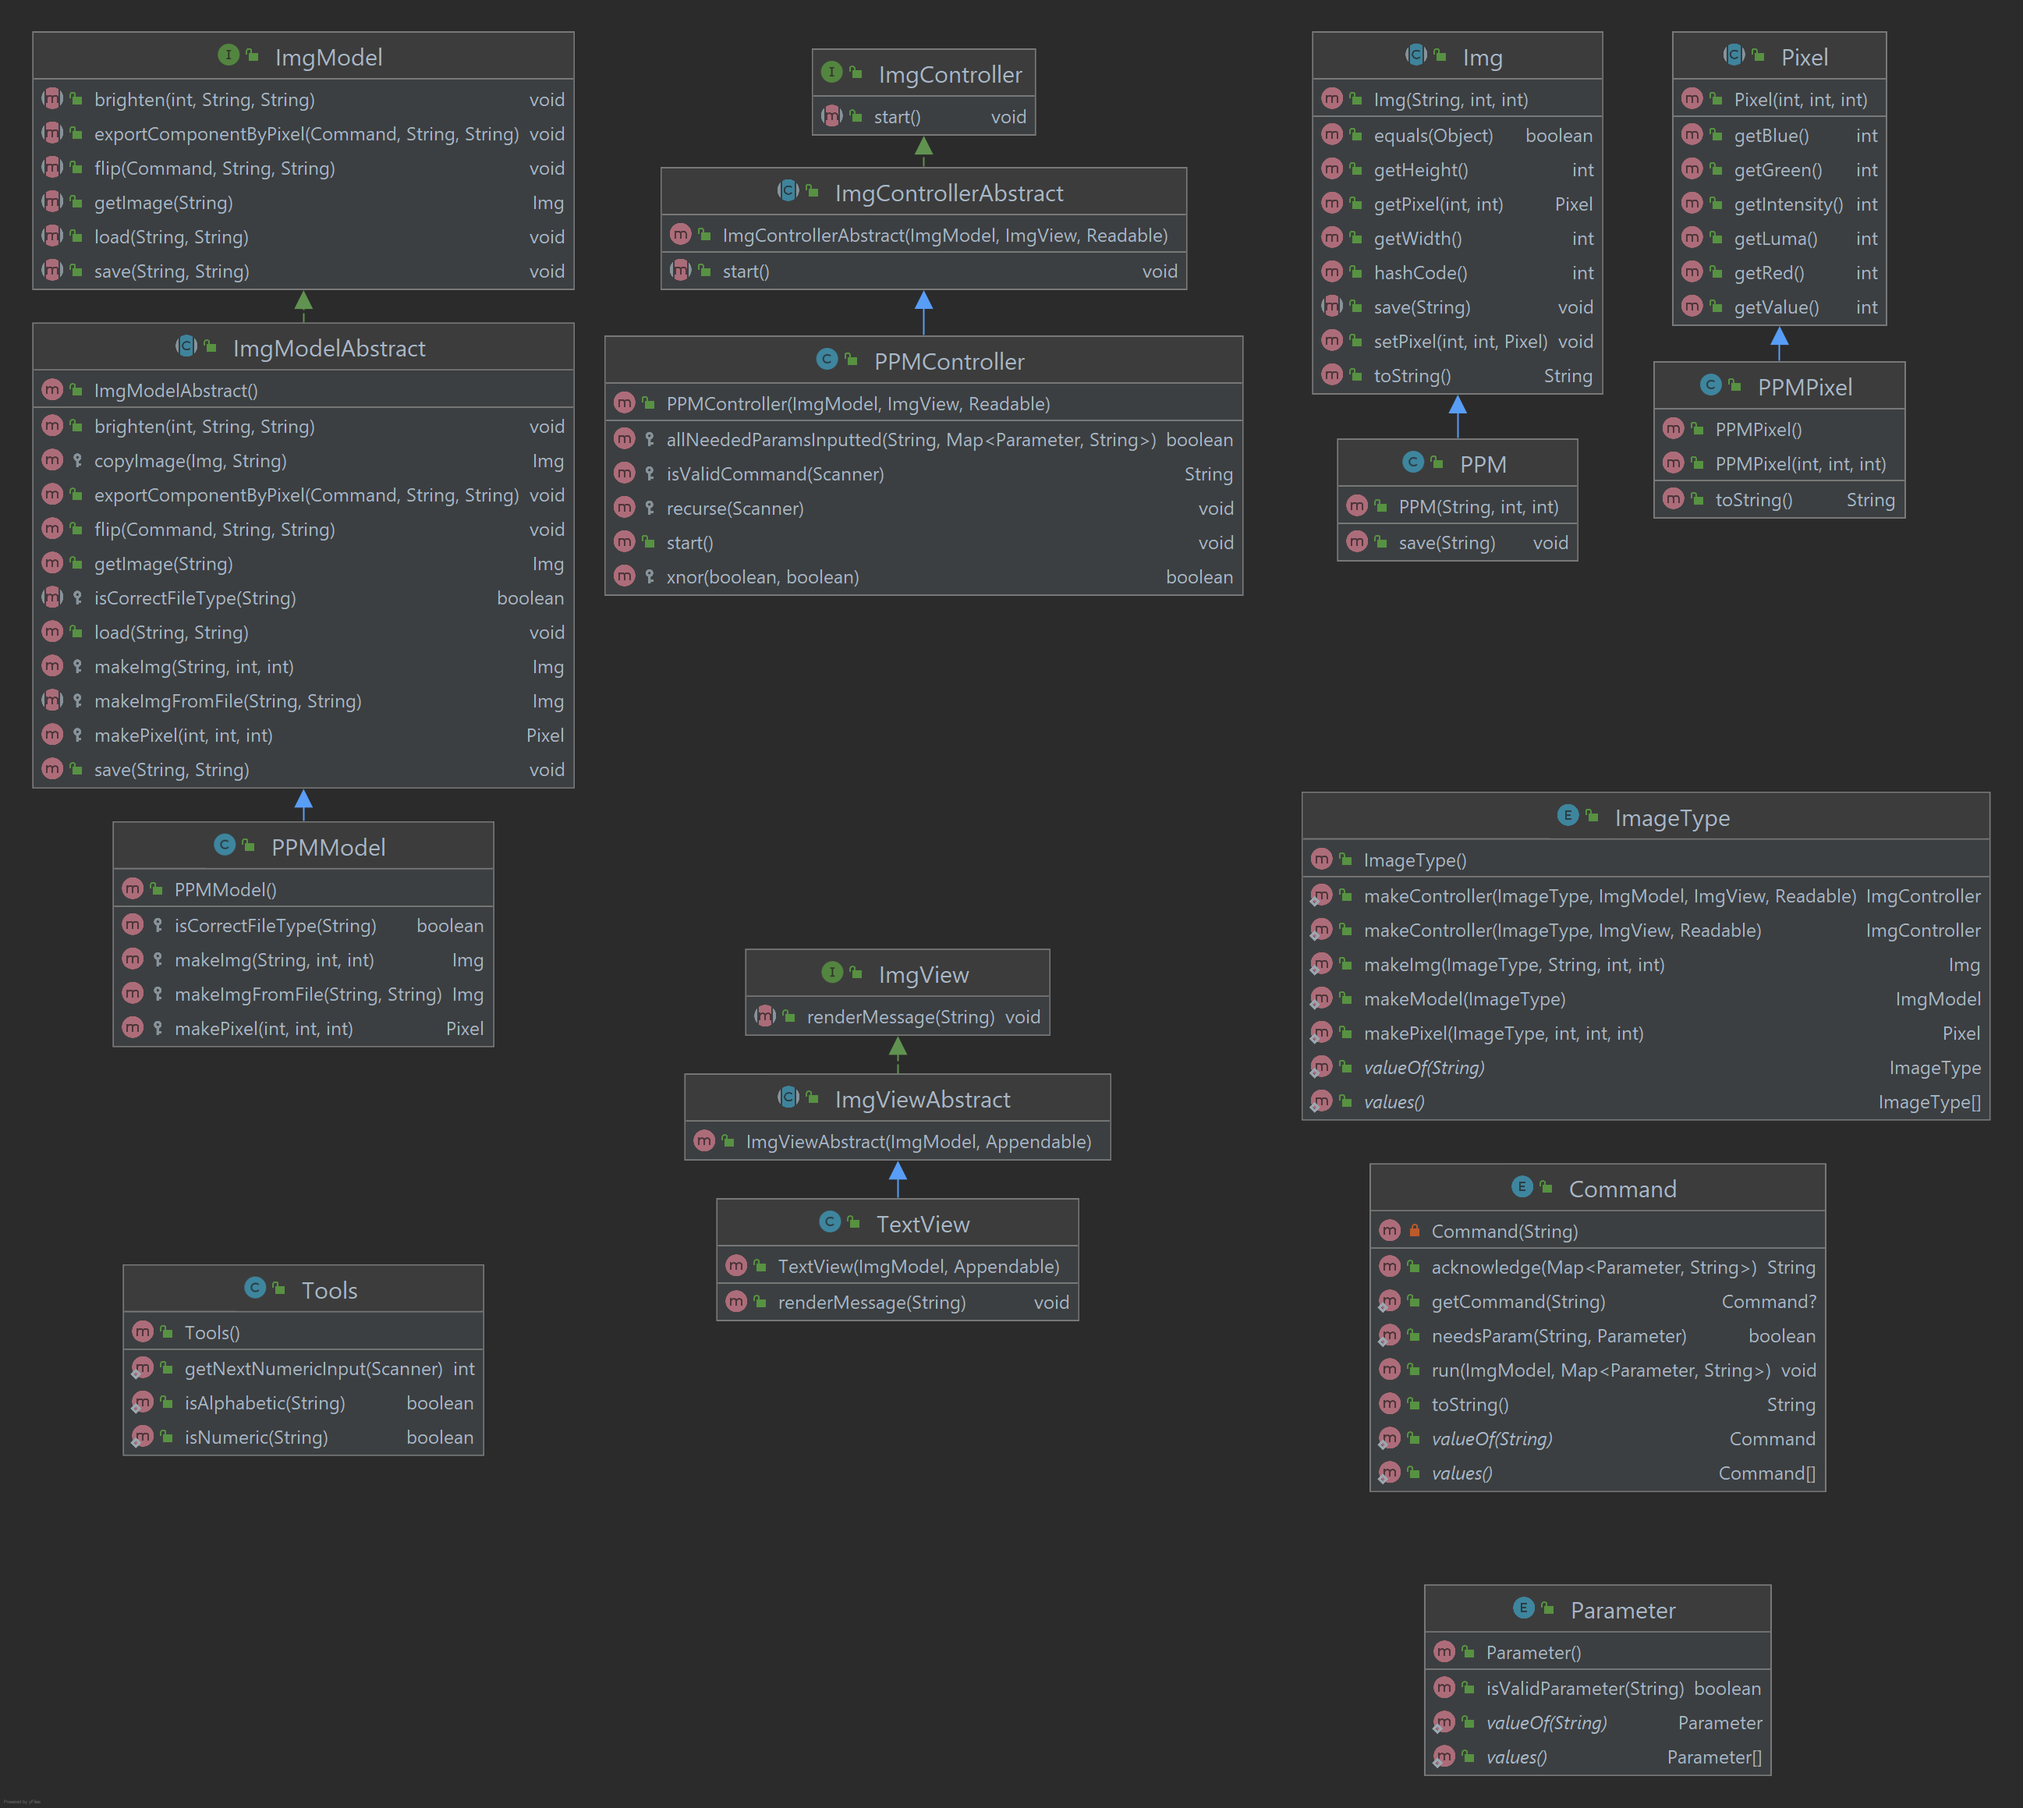
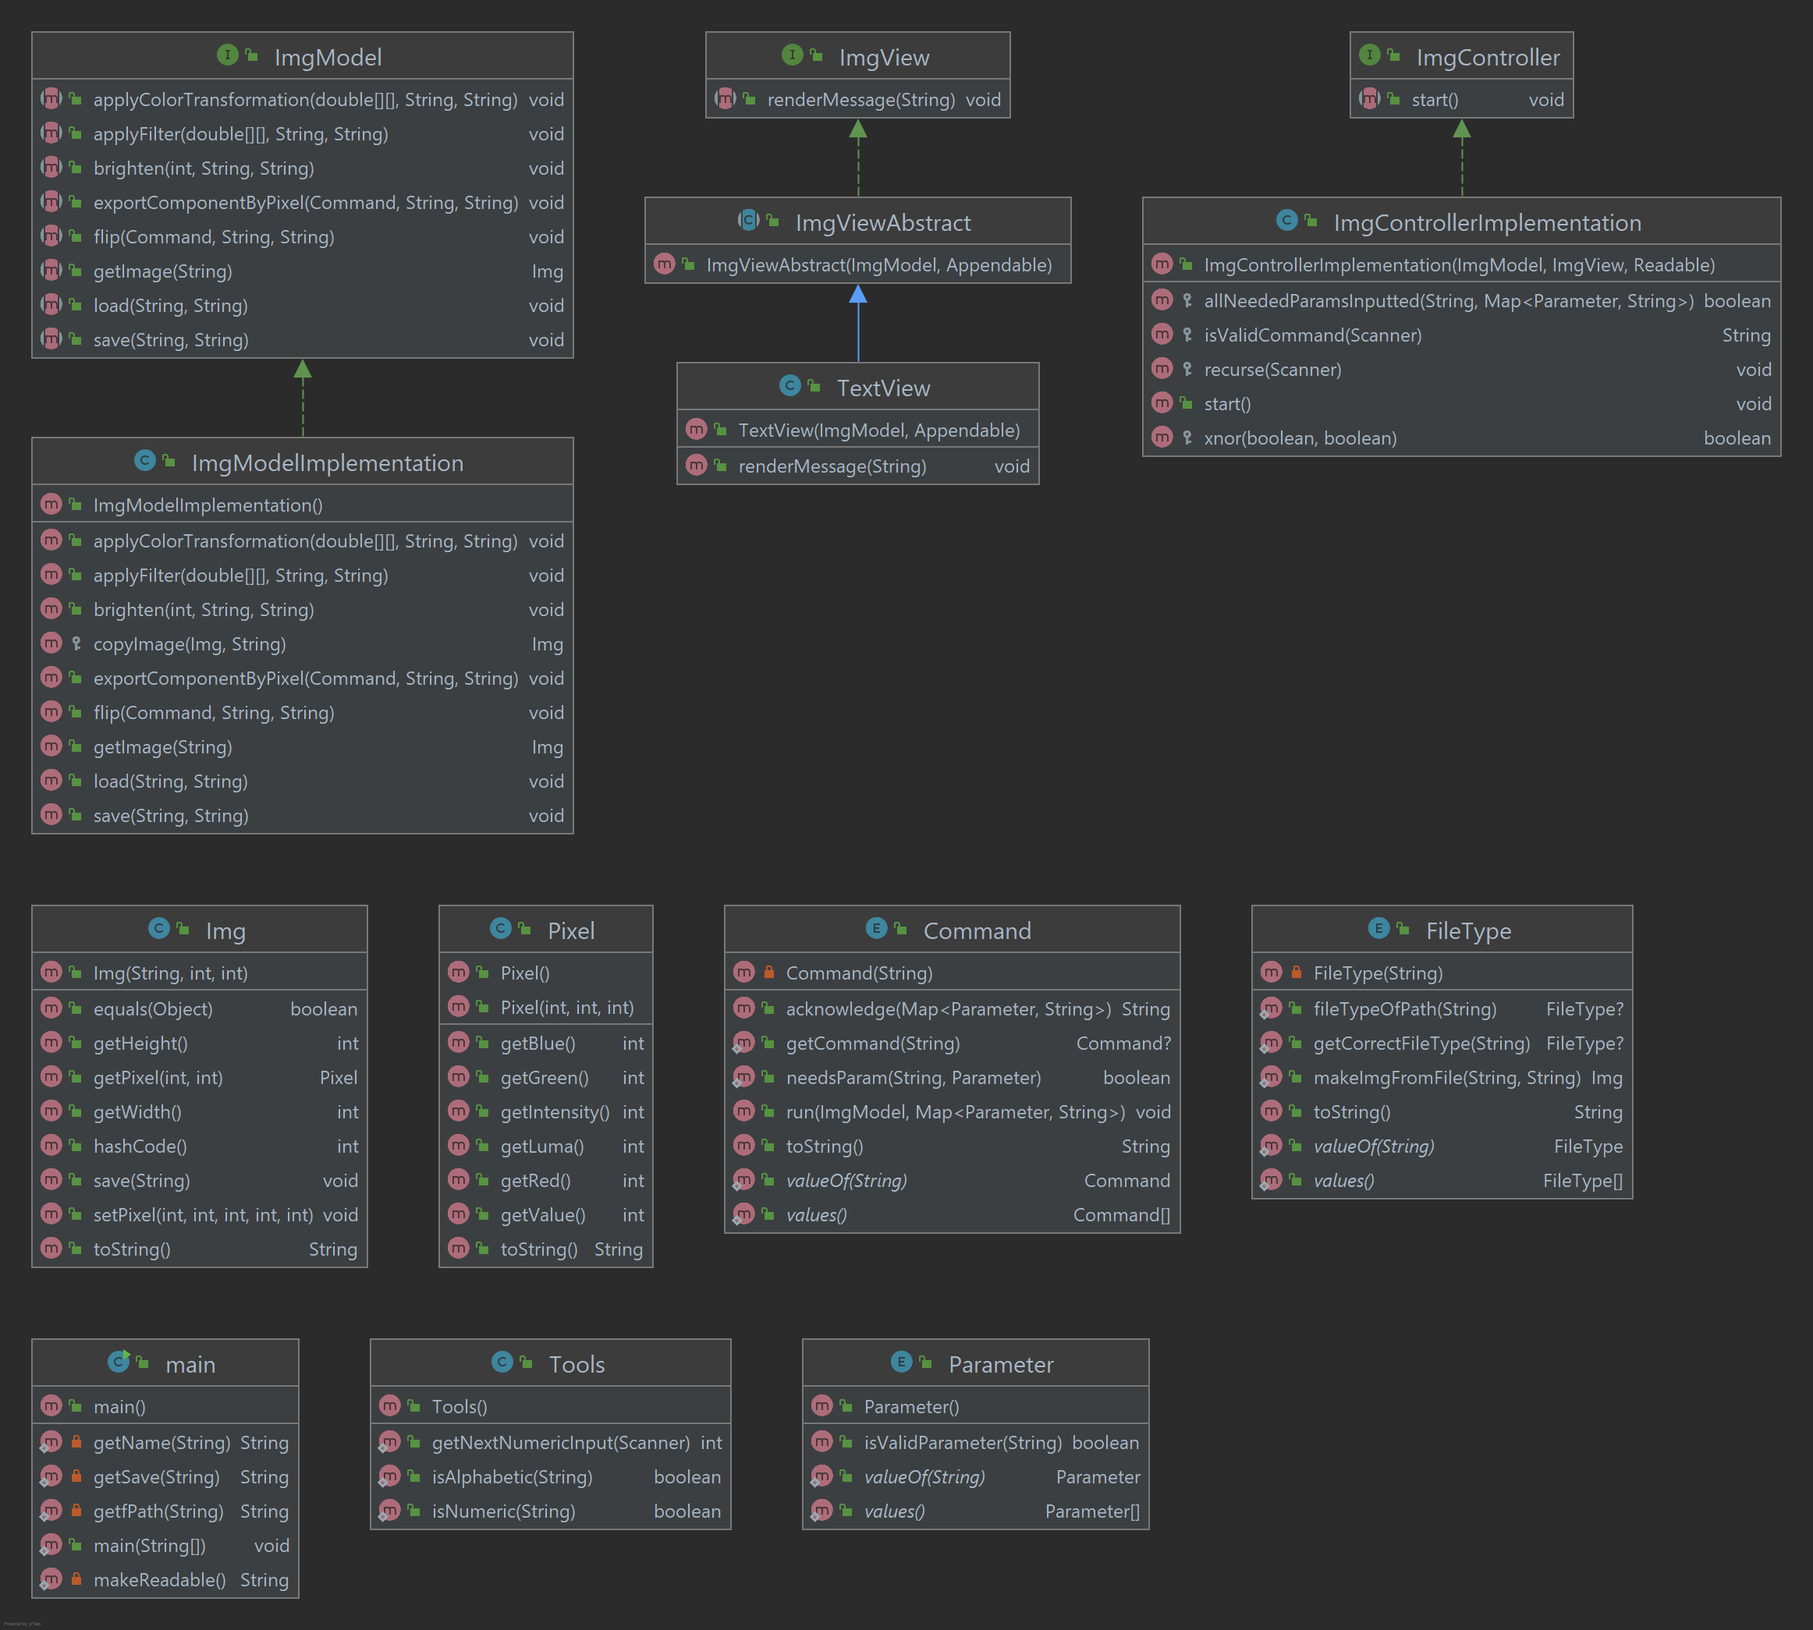
added tests and updated diagrams

diff --git a/src/Main.java b/src/Main.java
@@ -1,6 +1,6 @@
+
 import java.io.InputStreamReader;
 import java.io.PrintStream;
-import java.io.StringReader;
 import java.io.UnsupportedEncodingException;
 
 import controller.ImgController;
@@ -10,7 +10,10 @@ import model.ImgModelImplementation;
 import view.ImgView;
 import view.TextView;
 
-public class main {
+/**
+ * Class meant for running program using console input.
+ */
+public class Main {
   static ImgModel annoyingModel = new ImgModelImplementation();
   static Appendable out;
   static {
@@ -47,19 +50,12 @@ public class main {
             "quit";
   }
 
-  static Readable in = new StringReader(makeReadable());
-
-  //static Readable in = new InputStreamReader(System.in);
+  //static Readable in = new StringReader(makeReadable());
+  static Readable in = new InputStreamReader(System.in);
   static ImgView view = new TextView(annoyingModel, out);
   static ImgController controller = new ImgControllerImplementation(annoyingModel, view, in);
 
-  public main() throws UnsupportedEncodingException {
-  }
-
   public static void main (String[] args){
-    System.out.println(makeReadable());
-
-    System.out.println("\n \n ------------------------------ \n \n");
     controller.start();
   }
 }
